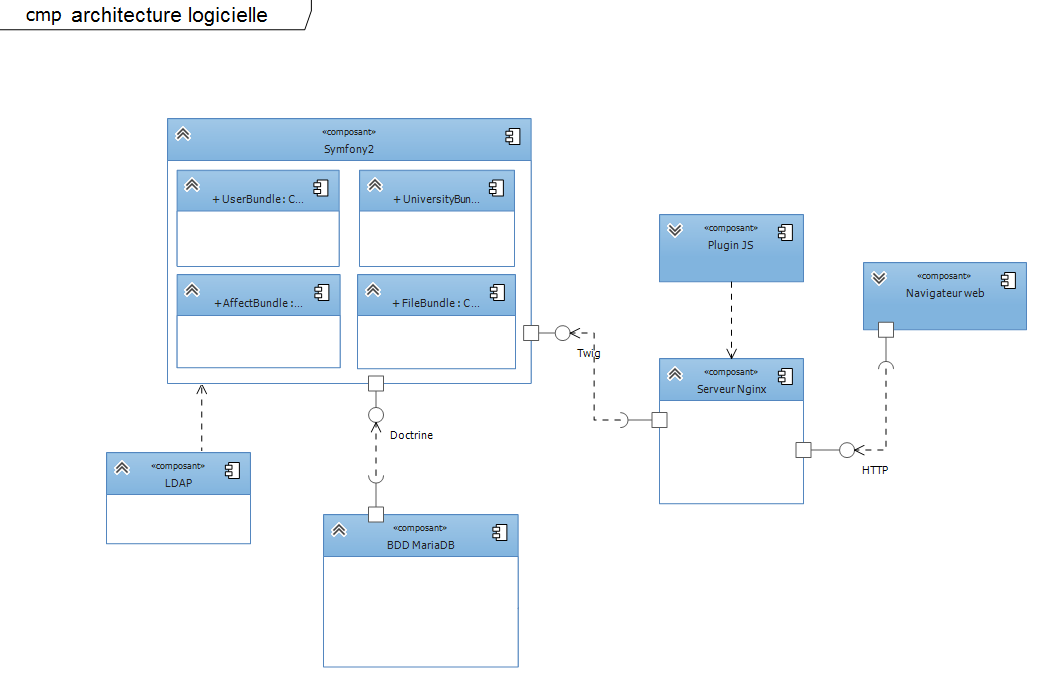
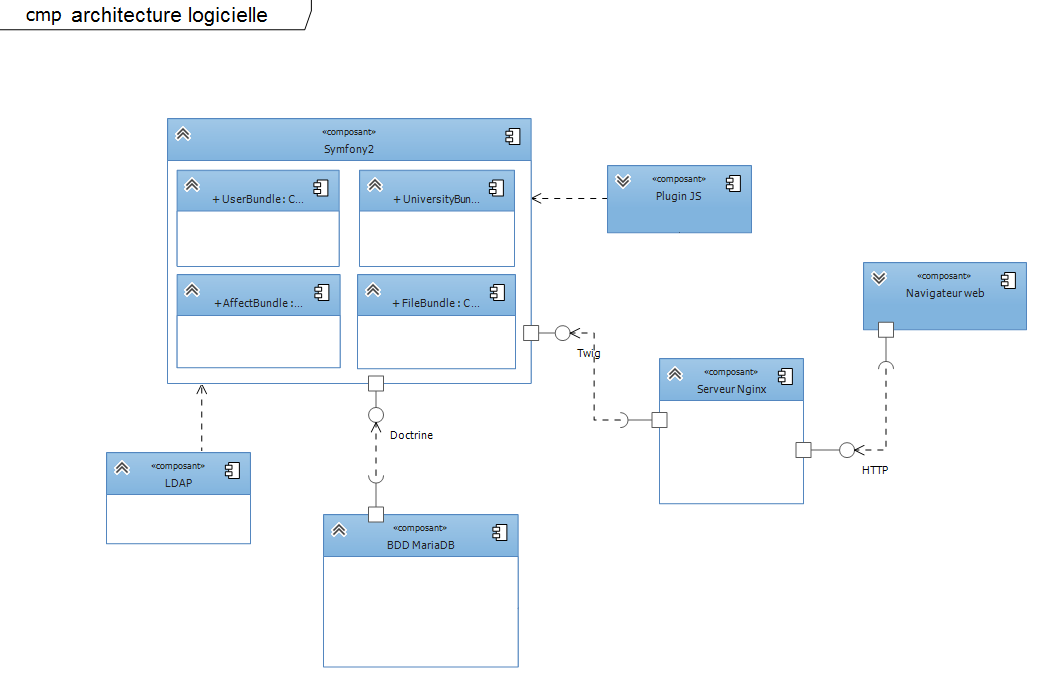
affect

Changed region(s): [[0.5796, 0.2149, 0.7931, 0.4298]]

diff --git a/Rapport de conception/vue_globale.tex b/Rapport de conception/vue_globale.tex
@@ -10,7 +10,7 @@ La figure \ref{archilogi} présente l'organisation des différents modules de no
 \bigbreak
 Ayant utilisé le framework Symfony2, les différents modules sont séparés en bundles. Chaque bundle est un ensemble de fichiers permettant d'implémenter un groupe de fonctionnalités. Notre projet dispose de 4 bundles :
 \begin{itemize}
-	\item UserBundle qui gère les actions de l'utilisateur sur le site;
+	\item UserBundle qui gère les actions de l'utilisateur (on distingue Admins et Students) sur le site;
 	\item UniversityBundle qui permet d'accéder à la liste d'université ou d'en modifier des entrées;
 	\item AffectBundle qui gère les vœux et affectations des étudiants.
 	\item FileBundle qui gère les documents administratifs déposés sur le site.
@@ -29,9 +29,13 @@ Doctrine est un bundle inclut dans Symfony2, c'est un ORM (Object-Relational Map
 
 \section{Hébergement}
 
-L'application est hébergée sur un serveur Nginx qui fait le lien entre la base de données et l'application Symfony2. Le serveur est lui-même hébergé au CRI et possède une capacité de 30 Go. Le CRI a aussi mis à disposition les clés pour passer le site en https, garantissant une meilleure sécurité.
+L'application est hébergée sur un serveur Nginx qui fait le lien entre la base de données et l'application Symfony2. Le serveur est lui-même hébergé au CRI et possède une capacité de 30 Go. Le CRI a aussi mis à disposition les certificats pour passer le site en https, garantissant une meilleure sécurité.
 
 \section{LDAP}
 
 L'application est en contact avec les LDAP (annuaire) de l'INSA de Rennes.
 Les administrateurs peuvent charger les étudiants directement depuis le LDAP. Il est aussi lors de l'authentification : notre application vérifie d'abord la présence dans sa base de donnée, puis interroge le LDAP qui vérifie le mot de passe. Ces derniers ne sont jamais enregistrés par notre application. 
+
+\section{Plugin JS}
+
+Il s'agit d'un petit plugin JavaScript permettant de trier les nombreux tableaux présents sur notre site. Ceci nous a permis d'ajouter rapidement des filtres, rendant ainsi la recherche d'information bien plus facile.

diff --git a/Rapport de conception/affectations.tex b/Rapport de conception/affectations.tex
@@ -1,1 +1,27 @@
 \chapter{Fonctionnalités : Affectations}
+
+Ce bundle contient toutes les fonctionnalités en rapport à l'affectation des étudiants.
+Elles interviennent principalement du côté Admin, car c'est leur rôle d'affecter les élèves. Il y a deux moyens de le faire : l'affectation manuelle et l'algorithme d'affectation automatique.
+
+\section{Affectation manuelle}
+
+L'Admin peut, depuis la page d'accueil, avoir accès à la page d'un étudiant. 
+ \bigbreak
+ \includegraphics[scale=0.5]{images/voeux_etud_vupar_admin.PNG}
+\bigbreak
+D'ici, il peut affecter ou désaffecter manuellement l'étudiant à un se ses vœux.
+Ce choix est alors enregistré et affiché comme la destination de l'étudiant.
+
+Les élèves affectés manuellement ne sont pas pris en compte dans l'algorithme d'affectation.
+
+\section{Algorithme : "la Moulinette"}
+
+L'Admin accède à cette fonctionnalité en cliquant sur le lien "Gérer les affectations" depuis sa page d'accueil.
+\bigbreak
+\includegraphics[scale=0.22]{images/Liste_de_voeux_admin.PNG}
+\bigbreak
+L'algorithme prend les élèves à affecter (ceux qui ne sont pas affectés manuellement et qui ont fait des vœux) dans un certain classement. Chaque année est classée selon la moyenne des élèves, puis un classement commun est créé en alternant 4A et 3A (en commençant pas les 4A). Le premier de 4A est suivi du premier de 3A, puis du second de 4A etc.
+
+L'algorithme affecte ensuite les destination en fonction de ce classement.
+Une fois fini, le responsable RI peut encore modifier le tableau, puis valide les affectations.
+
